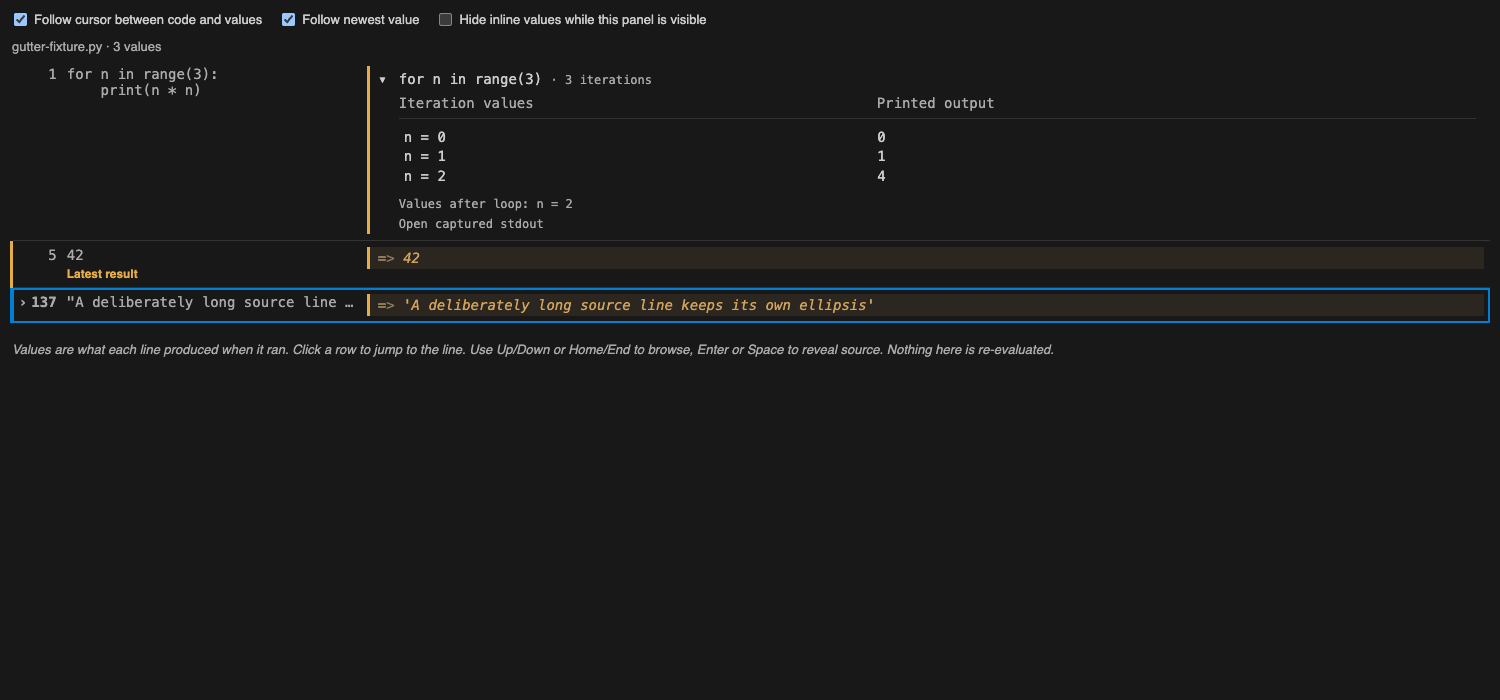
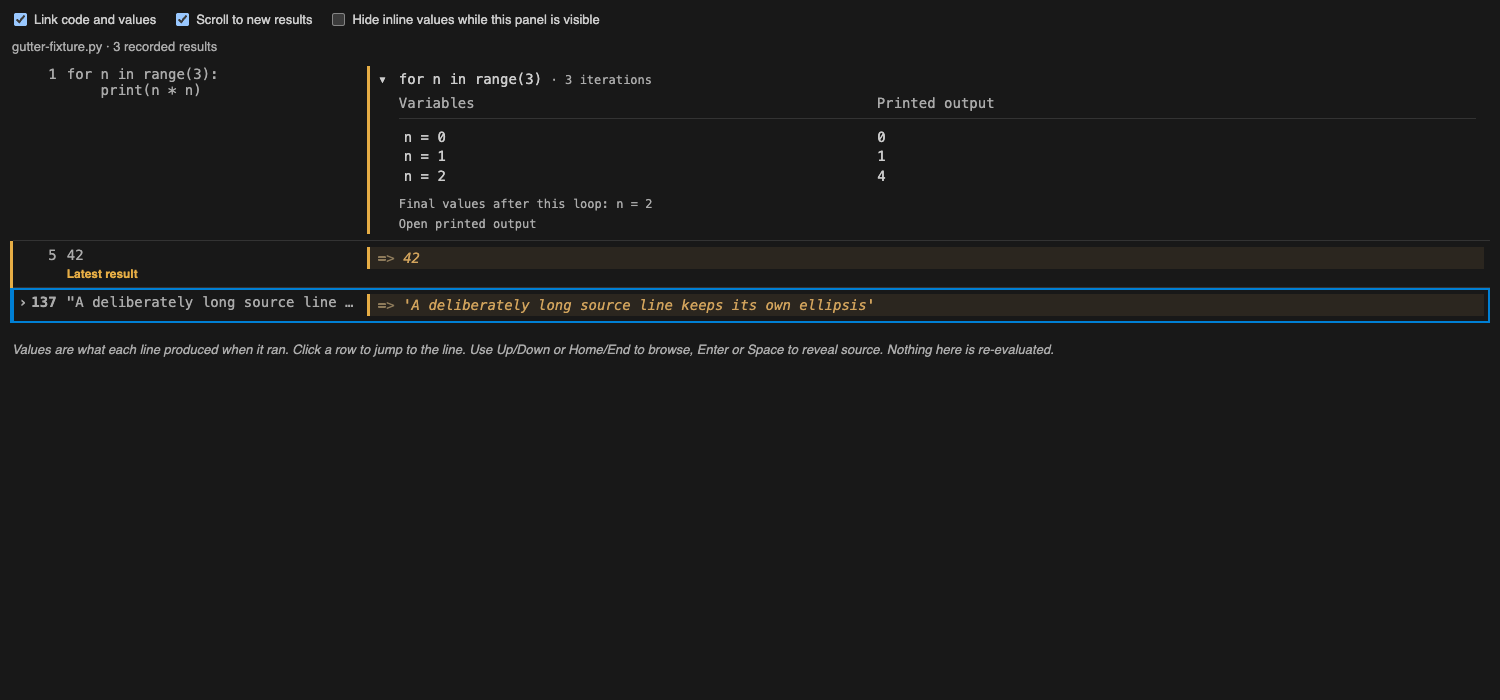
Record gutter layout checks after terminology integration
Refresh the rendered evidence against the new panel vocabulary and record
937 extension and 718 kernel tests passing after the rebase. The twelve
compiled-renderer layout cases pass at both tested sizes. Actual VS Code
Host navigation and live theme checks still await root review.

refs #179

Changed region(s): [[0.0307, 0.0, 0.46, 0.09], [0.276, 0.27, 0.3987, 0.33], [0.276, 0.12, 0.3373, 0.15]]

diff --git a/docs/reviews/179-large-font-gutter/README.md b/docs/reviews/179-large-font-gutter/README.md
@@ -37,6 +37,11 @@ check covers a six-digit line ID without allocating a million-line file.
 The Chromium measurements prove layout and the renderer's navigation
 message, not VS Code navigation or its live font/theme updates.
 
+After rebasing onto the terminology change at `f24d5ac`, all 937 extension
+tests and 718 kernel tests pass. The original task baseline was 936 and 718;
+the additional extension test belongs to #183. This layout-only fix adds no
+unit tests. Its direct rendering checks above exercise the actual failure.
+
 ## Remaining verification
 
 The root session will check actual source navigation, font/theme changes,
